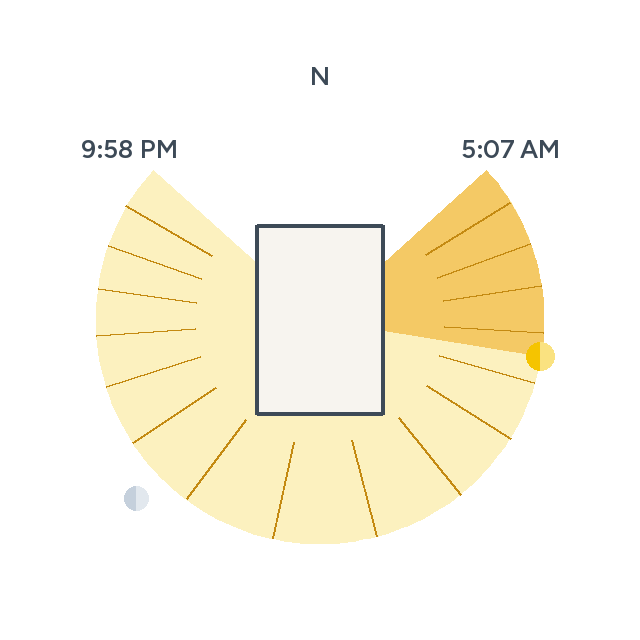
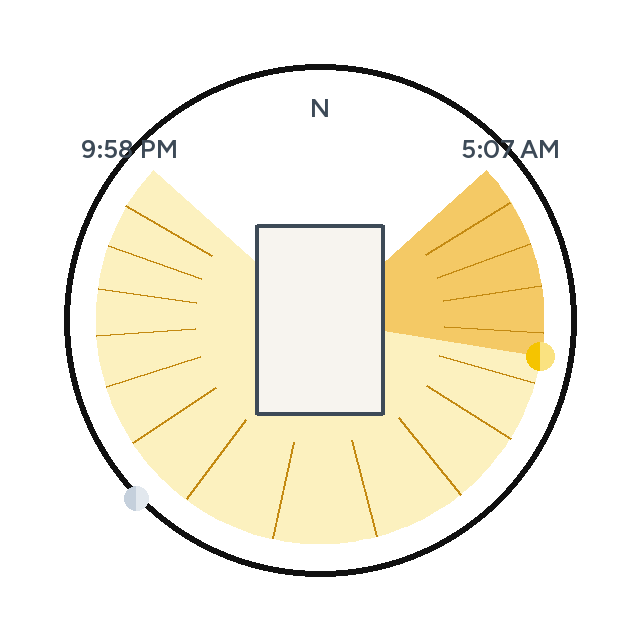
🤖 Ring the card in black
A full circle sits outside the daylight wedge, and north moves just inside it.

diff --git a/custom_components/sun_sweep/frontend/sun-sweep-card.js b/custom_components/sun_sweep/frontend/sun-sweep-card.js
@@ -8,10 +8,12 @@ const DOCS =
   "https://github.com/minchinweb/ha-sunsweep-card/blob/master/docs/configuration.md";
 const SIZE = 320;
 const RIM = 112;
+const RING_R = 128;
 const MOON_RIM = 128;
 const PALE = "#f6d84a";
 const STRONG = "#f0b429";
 const HOUR = "#c48a12";
+const RING = "#111111";
 
 const clockwise = (start, end) => (end - start + 360) % 360;
 const travel = (start, end, sunClockwise) =>
@@ -111,6 +113,7 @@ class SunSweepCard extends LitElement {
       parts.push(wedge("pale", attrs.pale_start, attrs.pale_end, RIM, PALE, 0.35, sunClockwise));
       parts.push(arc(attrs.pale_start, attrs.pale_end, RIM, sunClockwise));
     }
+    parts.push(svg`<circle id="ring" cx="160" cy="160" r=${RING_R} fill="none" stroke=${RING} stroke-width="3"></circle>`);
     if (attrs.strong_full) {
       parts.push(svg`<circle id="strong" cx="160" cy="160" r=${RIM} fill=${STRONG} fill-opacity="0.72"></circle>`);
     } else if (attrs.strong_start != null) {
@@ -161,7 +164,7 @@ class SunSweepCard extends LitElement {
         parts.push(svg`<text id=${id} x=${x.toFixed(1)} y=${y.toFixed(1)} text-anchor="middle" dominant-baseline="middle">${this._clock(attrs[key])}</text>`);
       }
     }
-    const [nx, ny] = pointAt(0, RIM + 14);
+    const [nx, ny] = pointAt(0, RING_R - 18);
     parts.push(svg`<text id="north" x=${nx.toFixed(1)} y=${(ny + 4).toFixed(1)} text-anchor="middle">N</text>`);
     return svg`<svg xmlns="http://www.w3.org/2000/svg" viewBox="0 0 ${SIZE} ${SIZE}">${parts}</svg>`;
   }

diff --git a/custom_components/sun_sweep/drawing.py b/custom_components/sun_sweep/drawing.py
@@ -19,6 +19,7 @@ from .constants import (
     MOON_FILL,
     PALE,
     PALE_OPACITY,
+    RING,
     STRONG,
     STRONG_OPACITY,
     SUN_FILL,
@@ -27,6 +28,7 @@ from .sweep import travel
 
 SIZE = 320
 _RIM = 112.0
+_RING = 128.0
 _MOON_RIM = 128.0
 _SUN_R = 7.0
 _MOON_R = 6.0
@@ -83,7 +85,7 @@ def _message(size: int, text: str) -> str:
 
 
 def _parts(attrs: dict, flags: dict[str, bool], size: int) -> list[str]:
-    """Draw order: pale wedge, strong wedge, rim, hours, house, sun, moon, times, N."""
+    """Wedges and the black ring, then hours, the house, the bodies, the times and N."""
     parts: list[str] = []
     rim = _RIM * size / SIZE
     sun_clockwise = attrs.get("sun_clockwise", True)
@@ -114,6 +116,11 @@ def _parts(attrs: dict, flags: dict[str, bool], size: int) -> list[str]:
                 "rim", attrs["pale_start"], attrs["pale_end"], rim, size, sun_clockwise
             )
         )
+    ring = _RING * size / SIZE
+    parts.append(
+        f'<circle id="ring" cx="{size / 2}" cy="{size / 2}" r="{ring:.1f}" '
+        f'fill="none" stroke="{RING}" stroke-width="3"/>'
+    )
     if attrs.get("strong_full"):
         parts.append(
             f'<circle id="strong" cx="{size / 2}" cy="{size / 2}" r="{rim:.1f}" '
@@ -153,7 +160,7 @@ def _parts(attrs: dict, flags: dict[str, bool], size: int) -> list[str]:
         parts.append(_disc("moon", x, y, _MOON_R * size / SIZE, MOON_FILL))
     if flags["show_times"]:
         parts.extend(_times(attrs, size, rim))
-    nx, ny = point_at(0, rim + 14, size)
+    nx, ny = point_at(0, ring - 18 * size / SIZE, size)
     parts.append(
         f'<text id="north" x="{nx:.1f}" y="{ny + 4:.1f}" text-anchor="middle" '
         f'fill="var(--primary-text-color)">N</text>'

diff --git a/scripts/render_card.py b/scripts/render_card.py
@@ -33,6 +33,7 @@ INK = (61, 74, 87, 255)
 PALE = (246, 216, 74, 90)
 STRONG = (240, 180, 41, 184)
 HOUR = (196, 138, 18, 255)
+RING = (17, 17, 17, 255)
 SUN = (245, 196, 0, 255)
 MOON = (197, 208, 220, 255)
 HOUSE_FILL = (247, 244, 239, 255)
@@ -110,6 +111,13 @@ def paint(attrs: dict, size: int = 640) -> Image.Image:
             _sector(attrs["pale_start"], attrs["pale_end"], rim, size, sun_clockwise),
             fill=PALE,
         )
+    ring = 128.0 * size / 320
+    mid = size / 2
+    draw.ellipse(
+        (mid - ring, mid - ring, mid + ring, mid + ring),
+        outline=RING,
+        width=max(3, round(3 * size / 320)),
+    )
     if attrs.get("strong_full"):
         mid = size / 2
         draw.ellipse((mid - rim, mid - rim, mid + rim, mid + rim), fill=STRONG)
@@ -151,7 +159,7 @@ def paint(attrs: dict, size: int = 640) -> Image.Image:
             continue
         x, y = _label(attrs[azimuth_key], size, rim)
         draw.text((x, y), _clock(attrs[key]), font=font, fill=INK, anchor="mm")
-    nx, ny = point_at(0, rim + 14 * size / 320, size)
+    nx, ny = point_at(0, ring - 18 * size / 320, size)
     draw.text((nx, ny + 4 * size / 320), "N", font=font, fill=INK, anchor="mm")
     return image
 

diff --git a/tests/test_drawing.py b/tests/test_drawing.py
@@ -39,6 +39,7 @@ def test_a_summer_morning_draws_the_elapsed_wedge_and_both_bodies():
     assert svg.count('fill-opacity="0.5"') == 2
     assert "5:04 AM" in svg and "10:06 PM" in svg
     assert ">N<" in svg
+    assert 'id="ring"' in svg and 'stroke="#111111"' in svg
     end = point_at(313.5, 112)
     assert f"{end[0]:.1f}" in svg
 

diff --git a/custom_components/sun_sweep/constants.py b/custom_components/sun_sweep/constants.py
@@ -21,6 +21,7 @@ PALE_OPACITY = 0.35
 STRONG = "#f0b429"
 STRONG_OPACITY = 0.72
 HOUR = "#c48a12"
+RING = "#111111"
 SUN_FILL = "#f5c400"
 SUN_STROKE = "#a56b00"
 # Cool grey so the white half of the two-tone moon still reads.

diff --git a/docs/configuration.md b/docs/configuration.md
@@ -40,7 +40,8 @@ as leaving it on.
 | `show_moon` | on | A two-tone disc just outside the rim at the moon's bearing, only while the moon is above the horizon |
 | `show_hours` | on | A line through the wedge at each local hour the sun is up |
 
-North is the top of the circle. The house sits in the middle, scaled so the
+A black ring circles the daylight disc, the way a compass draws its edge.
+North is the top of the circle, just inside that ring. The house sits in the middle, scaled so the
 wedge stays visible around it. The hour lines stop at the building.
 
 ## How to read the wedge

diff --git a/README.md b/README.md
@@ -14,7 +14,7 @@ sun is now. Hour lines mark each clock hour. A yellow disc sits on the rim at
 the sun, and a two-tone disc sits just outside the rim at the moon, each only
 while that body is above the horizon.
 
-North is up. The house is your building, not a generic box: House Structure
+A black ring circles the disc. North is up. The house is your building, not a generic box: House Structure
 fetches the footprint (Nominatim, then Overpass) and Sun Sweep reads the ring
 it keeps.
 
